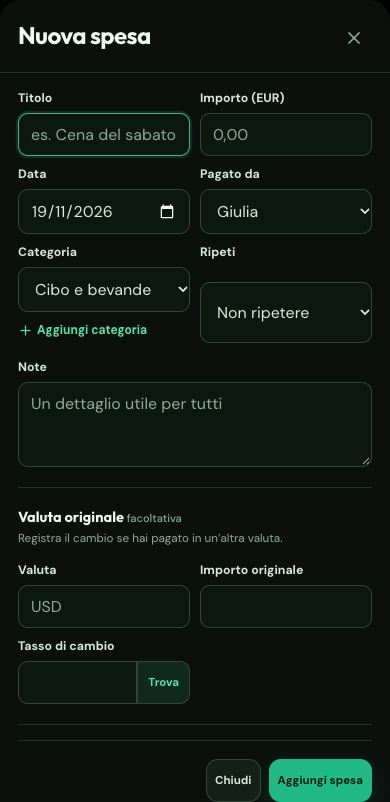
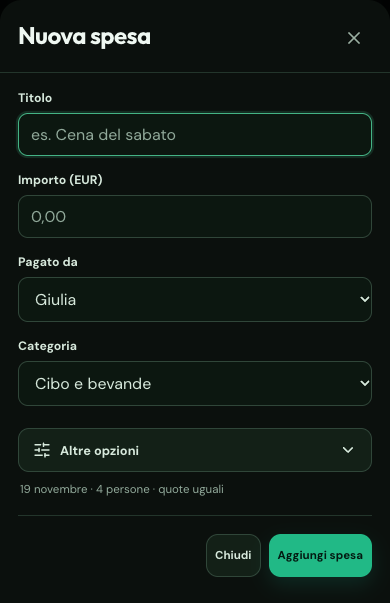
Simplify expense entry with optional details

diff --git a/src/ExpenseForm.tsx b/src/ExpenseForm.tsx
@@ -1,11 +1,11 @@
 import { useEffect, useState, type FormEvent } from 'react'
-import { Paperclip, Plus, Trash2, Upload } from 'lucide-react'
+import { ChevronDown, Paperclip, SlidersHorizontal, Trash2, Upload } from 'lucide-react'
 import { api, fromMinor, money, post, patch, remove, toMinor, today, type Expense, type Group, type Participant, type Settlement } from './api'
 import { Button, Field, Modal } from './ui'
 
 type Categories = { predefined: string[]; custom: string[] }
-export function ExpenseForm({ group, participants, expense, reimbursement, canEdit, canAddCategory, onClose, onSaved, onNotice }: {
-  group: Group; participants: Participant[]; expense?: Expense; reimbursement?: Settlement | null; canEdit: boolean; canAddCategory: boolean; onClose: () => void; onSaved: () => void; onNotice: (message: string) => void
+export function ExpenseForm({ group, participants, expense, reimbursement, canEdit, onClose, onSaved, onNotice }: {
+  group: Group; participants: Participant[]; expense?: Expense; reimbursement?: Settlement | null; canEdit: boolean; onClose: () => void; onSaved: () => void; onNotice: (message: string) => void
 }) {
   const [title, setTitle] = useState(expense?.title || (reimbursement ? 'Rimborso' : ''))
   const [amount, setAmount] = useState(expense ? fromMinor(expense.amountMinor, group.currency) : reimbursement ? fromMinor(reimbursement.amountMinor, group.currency) : '')
@@ -13,10 +13,8 @@ export function ExpenseForm({ group, participants, expense, reimbursement, canEd
   const [payerId, setPayerId] = useState(expense?.payerId || reimbursement?.from || participants[0]?.id || '')
   const [category, setCategory] = useState(expense?.category || (reimbursement ? 'Rimborso' : ''))
   const [categories, setCategories] = useState<Categories | null>(null)
-  const [addingCategory, setAddingCategory] = useState(false)
-  const [newCategory, setNewCategory] = useState('')
   const [categoryError, setCategoryError] = useState('')
-  const [categoryBusy, setCategoryBusy] = useState(false)
+  const [showAdvanced, setShowAdvanced] = useState(false)
   const [notes, setNotes] = useState(expense?.notes || '')
   const [mode, setMode] = useState<Expense['splitMode']>(expense?.splitMode || 'EQUAL')
   const [selected, setSelected] = useState<string[]>(expense?.shares.map((share) => share.participantId) || (reimbursement ? [reimbursement.to] : participants.map((person) => person.id)))
@@ -60,6 +58,7 @@ export function ExpenseForm({ group, participants, expense, reimbursement, canEd
   async function save(event: FormEvent) {
     event.preventDefault(); setError('')
     if (!categories && !reimbursement) return setError('Attendi il caricamento delle categorie.')
+    if (!date) return setError('Scegli una data nelle altre opzioni.')
     if (!selected.length) return setError('Seleziona almeno un partecipante.')
     if (!Number.isFinite(amountMinor) || amountMinor <= 0) return setError('Inserisci un importo valido.')
     const shares = selected.map((participantId) => ({ participantId, value: mode === 'EQUAL' ? 1 : mode === 'EXACT' ? toMinor(weights[participantId] || '0', group.currency) : Number((weights[participantId] || '0').replace(',', '.')) }))
@@ -68,30 +67,33 @@ export function ExpenseForm({ group, participants, expense, reimbursement, canEd
     try { const result = expense ? await patch<{ ok: boolean }>(`/groups/${group.id}/expenses/${expense.id}`, body) : await post<{ id: string }>(`/groups/${group.id}/expenses`, body); await uploadFile(expense?.id || ('id' in result ? result.id : '')); onSaved() }
     catch (err) { setError((err as Error).message) } finally { setBusy(false) }
   }
-  async function addCategory() {
-    if (categoryBusy) return
-    setCategoryError(''); setCategoryBusy(true)
-    try {
-      const result = await post<{ name: string }>(`/groups/${group.id}/categories`, { name: newCategory })
-      setCategories((current) => current && { ...current, custom: [...current.custom, result.name].sort((a, b) => a.localeCompare(b, 'it')) })
-      setCategory(result.name)
-      setNewCategory('')
-      setAddingCategory(false)
-    } catch (err) { setCategoryError((err as Error).message) } finally { setCategoryBusy(false) }
-  }
   async function deleteExpense() { if (!expense || !confirm(`Eliminare “${expense.title}”?`)) return; try { await remove(`/groups/${group.id}/expenses/${expense.id}`); onSaved() } catch (err) { setError((err as Error).message) } }
-  return <Modal title={expense ? canEdit ? 'Modifica spesa' : 'Dettaglio spesa' : reimbursement ? 'Registra rimborso' : 'Nuova spesa'} onClose={onClose} wide>
-    <form onSubmit={save} className="expense-form"><div className="expense-form-main"><div className="form-grid">
-      <Field label="Titolo"><input autoFocus value={title} onChange={(e) => setTitle(e.target.value)} required disabled={!canEdit} placeholder="es. Cena del sabato" /></Field>
-      <Field label={`Importo (${group.currency})`}><input inputMode="decimal" value={amount} onChange={(e) => setAmount(e.target.value)} required disabled={!canEdit} placeholder="0,00" /></Field>
-      <Field label="Data"><input type="date" value={date} onChange={(e) => setDate(e.target.value)} required disabled={!canEdit} /></Field>
-      <Field label="Pagato da"><select value={payerId} onChange={(e) => setPayerId(e.target.value)} disabled={!canEdit}>{participants.map((person) => <option key={person.id} value={person.id}>{person.name}</option>)}</select></Field>
-      <div className="category-field"><Field label="Categoria"><select aria-label="Categoria" value={category} onChange={(e) => setCategory(e.target.value)} disabled={!canEdit || !categories || Boolean(reimbursement)} required>{reimbursement ? <option value="Rimborso">Rimborso</option> : categories ? <><optgroup label="Predefinite">{categories.predefined.map((item) => <option key={item} value={item}>{item}</option>)}</optgroup>{categories.custom.length > 0 && <optgroup label="Del gruppo">{categories.custom.map((item) => <option key={item} value={item}>{item}</option>)}</optgroup>}</> : <option value="">Caricamento…</option>}</select></Field>{canEdit && canAddCategory && !reimbursement && <button type="button" className="category-add-toggle" onClick={() => { setAddingCategory(!addingCategory); setCategoryError('') }}><Plus size={15} /> Aggiungi categoria</button>}{addingCategory && <div className="category-add-form"><input aria-label="Nome nuova categoria" placeholder="Nome della nuova categoria" maxLength={60} value={newCategory} onChange={(e) => setNewCategory(e.target.value)} onKeyDown={(e) => { if (e.key === 'Enter') { e.preventDefault(); void addCategory() } }} /><Button variant="secondary" onClick={addCategory} disabled={!newCategory.trim() || categoryBusy}>Aggiungi</Button></div>}{categoryError && <small className="category-error" role="alert">{categoryError}</small>}</div>
-      <Field label="Ripeti">{expense ? <span>{expense.recurrenceId ? 'Spesa ricorrente' : 'Non ricorrente'}</span> : <select value={recurrence} onChange={(e) => setRecurrence(e.target.value)} disabled={!canEdit}><option value="">Non ripetere</option><option value="DAILY">Ogni giorno</option><option value="WEEKLY">Ogni settimana</option><option value="MONTHLY">Ogni mese</option></select>}</Field>
-    </div><Field label="Note"><textarea value={notes} onChange={(e) => setNotes(e.target.value)} rows={3} disabled={!canEdit} placeholder="Un dettaglio utile per tutti" /></Field>
-    <div className="subsection"><h3>Valuta originale <span className="optional">facoltativa</span></h3><p>Registra il cambio se hai pagato in un’altra valuta.</p><div className="form-grid"><Field label="Valuta"><input value={originalCurrency} onChange={(e) => setOriginalCurrency(e.target.value.toUpperCase())} maxLength={3} placeholder="USD" disabled={!canEdit} /></Field><Field label="Importo originale"><input value={originalAmount} onChange={(e) => setOriginalAmount(e.target.value)} inputMode="decimal" disabled={!canEdit} /></Field><Field label="Tasso di cambio"><div className="input-action"><input value={rate} onChange={(e) => setRate(e.target.value)} inputMode="decimal" disabled={!canEdit} />{canEdit && <button type="button" onClick={fetchRate}>Trova</button>}</div></Field></div></div>
-    <div className="subsection"><h3>Allegati</h3><p>Immagini o PDF fino a 5 MB.</p>{expense?.documents.map((document) => <div className="document-row" key={document.id}><Paperclip size={16} /><a href={`/api/groups/${group.id}/expenses/${expense.id}/documents/${document.id}`}>{document.name}</a>{canEdit && <button type="button" onClick={async () => { try { await remove(`/groups/${group.id}/expenses/${expense.id}/documents/${document.id}`); onSaved() } catch (err) { onNotice((err as Error).message) } }} aria-label={`Rimuovi ${document.name}`}><Trash2 size={16} /></button>}</div>)}{canEdit && <label className="upload-zone"><Upload size={20} />{file ? file.name : 'Scegli un’immagine o PDF'}<input type="file" accept="image/jpeg,image/png,image/webp,application/pdf" onChange={(e) => setFile(e.target.files?.[0] || null)} /></label>}</div></div>
-    <aside className="split-panel"><h3>Dividi la spesa</h3><p>Scegli chi partecipa e come suddividere l’importo.</p><div className="split-modes">{([['EQUAL','Uguale'],['SHARES','Quote'],['PERCENT','%'],['EXACT','Importi']] as const).map(([value,label]) => <button type="button" key={value} className={mode === value ? 'active' : ''} onClick={() => changeMode(value)} disabled={!canEdit}>{label}</button>)}</div><div className="share-list">{participants.map((person) => <div className="share-row" key={person.id}><label><input type="checkbox" checked={selected.includes(person.id)} onChange={() => toggle(person.id)} disabled={!canEdit} />{person.name}</label>{selected.includes(person.id) && mode !== 'EQUAL' ? <input aria-label={`Quota di ${person.name}`} value={weights[person.id] || ''} onChange={(e) => setWeights({ ...weights, [person.id]: e.target.value })} inputMode="decimal" disabled={!canEdit} /> : null}</div>)}</div><div className="split-total"><span>Totale da dividere</span><strong>{Number.isFinite(amountMinor) ? money(amountMinor, group.currency) : '—'}</strong></div></aside>
-    {error && <div className="form-error expense-error" role="alert">{error}</div>}<div className="expense-form-actions">{expense && canEdit && <Button variant="danger" onClick={deleteExpense}><Trash2 size={17} /> Elimina</Button>}<span /><Button variant="secondary" onClick={onClose}>Chiudi</Button>{canEdit && <Button type="submit" disabled={busy || (!categories && !reimbursement)}>{busy ? 'Salvo…' : expense ? 'Salva modifiche' : 'Aggiungi spesa'}</Button>}</div></form>
+  return <Modal title={expense ? canEdit ? 'Modifica spesa' : 'Dettaglio spesa' : reimbursement ? 'Registra rimborso' : 'Nuova spesa'} onClose={onClose}>
+    <form onSubmit={save} className="expense-form">
+      <div className="expense-form-main">
+        <div className="expense-essentials">
+          <Field label="Titolo"><input autoFocus value={title} onChange={(event) => setTitle(event.target.value)} required disabled={!canEdit} placeholder="es. Cena del sabato" /></Field>
+          <Field label={'Importo (' + group.currency + ')'}><input inputMode="decimal" value={amount} onChange={(event) => setAmount(event.target.value)} required disabled={!canEdit} placeholder="0,00" /></Field>
+          <Field label="Pagato da"><select value={payerId} onChange={(event) => setPayerId(event.target.value)} disabled={!canEdit}>{participants.map((person) => <option key={person.id} value={person.id}>{person.name}</option>)}</select></Field>
+          <div className="category-field"><Field label="Categoria"><select aria-label="Categoria" value={category} onChange={(event) => setCategory(event.target.value)} disabled={!canEdit || !categories || Boolean(reimbursement)} required>{reimbursement ? <option value="Rimborso">Rimborso</option> : categories ? <><optgroup label="Predefinite">{categories.predefined.map((item) => <option key={item} value={item}>{item}</option>)}</optgroup>{categories.custom.length > 0 && <optgroup label="Del gruppo">{categories.custom.map((item) => <option key={item} value={item}>{item}</option>)}</optgroup>}</> : <option value="">Caricamento…</option>}</select></Field>{categoryError && <small className="category-error" role="alert">{categoryError}</small>}</div>
+        </div>
+        <button type="button" className="expense-options-toggle" aria-expanded={showAdvanced} onClick={() => setShowAdvanced(!showAdvanced)}>
+          <span><SlidersHorizontal size={18} /> Altre opzioni</span><ChevronDown size={18} className={showAdvanced ? 'rotated' : ''} />
+        </button>
+        {!showAdvanced && <p className="expense-defaults">{date ? new Date(date + 'T12:00:00').toLocaleDateString('it-IT', { day: 'numeric', month: 'long' }) : 'Data da scegliere'} · {selected.length} {selected.length === 1 ? 'persona' : 'persone'} · {mode === 'EQUAL' ? 'quote uguali' : mode === 'SHARES' ? 'quote personalizzate' : mode === 'PERCENT' ? 'percentuali' : 'importi personalizzati'}</p>}
+        {showAdvanced && <div id="expense-advanced" className="expense-advanced">
+          <div className="expense-extra-fields">
+            <Field label="Data"><input type="date" value={date} onChange={(event) => setDate(event.target.value)} required disabled={!canEdit} /></Field>
+            <Field label="Ripeti">{expense ? <span>{expense.recurrenceId ? 'Spesa ricorrente' : 'Non ricorrente'}</span> : <select value={recurrence} onChange={(event) => setRecurrence(event.target.value)} disabled={!canEdit}><option value="">Non ripetere</option><option value="DAILY">Ogni giorno</option><option value="WEEKLY">Ogni settimana</option><option value="MONTHLY">Ogni mese</option></select>}</Field>
+          </div>
+          <section className="split-panel"><h3>Dividi la spesa</h3><p>Scegli chi partecipa e come suddividere l’importo.</p><div className="split-modes">{([['EQUAL','Uguale'],['SHARES','Quote'],['PERCENT','%'],['EXACT','Importi']] as const).map(([value,label]) => <button type="button" key={value} className={mode === value ? 'active' : ''} onClick={() => changeMode(value)} disabled={!canEdit}>{label}</button>)}</div><div className="share-list">{participants.map((person) => <div className="share-row" key={person.id}><label><input type="checkbox" checked={selected.includes(person.id)} onChange={() => toggle(person.id)} disabled={!canEdit} />{person.name}</label>{selected.includes(person.id) && mode !== 'EQUAL' ? <input aria-label={'Quota di ' + person.name} value={weights[person.id] || ''} onChange={(event) => setWeights({ ...weights, [person.id]: event.target.value })} inputMode="decimal" disabled={!canEdit} /> : null}</div>)}</div><div className="split-total"><span>Totale da dividere</span><strong>{Number.isFinite(amountMinor) ? money(amountMinor, group.currency) : '—'}</strong></div></section>
+          <Field label="Note"><textarea value={notes} onChange={(event) => setNotes(event.target.value)} rows={3} disabled={!canEdit} placeholder="Un dettaglio utile per tutti" /></Field>
+          <div className="subsection"><h3>Valuta originale <span className="optional">facoltativa</span></h3><p>Registra il cambio se hai pagato in un’altra valuta.</p><div className="expense-extra-fields"><Field label="Valuta"><input value={originalCurrency} onChange={(event) => setOriginalCurrency(event.target.value.toUpperCase())} maxLength={3} placeholder="USD" disabled={!canEdit} /></Field><Field label="Importo originale"><input value={originalAmount} onChange={(event) => setOriginalAmount(event.target.value)} inputMode="decimal" disabled={!canEdit} /></Field><Field label="Tasso di cambio"><div className="input-action"><input value={rate} onChange={(event) => setRate(event.target.value)} inputMode="decimal" disabled={!canEdit} />{canEdit && <button type="button" onClick={fetchRate}>Trova</button>}</div></Field></div></div>
+          <div className="subsection"><h3>Allegati</h3><p>Immagini o PDF fino a 5 MB.</p>{expense?.documents.map((document) => <div className="document-row" key={document.id}><Paperclip size={16} /><a href={'/api/groups/' + group.id + '/expenses/' + expense.id + '/documents/' + document.id}>{document.name}</a>{canEdit && <button type="button" onClick={async () => { try { await remove('/groups/' + group.id + '/expenses/' + expense.id + '/documents/' + document.id); onSaved() } catch (err) { onNotice((err as Error).message) } }} aria-label={'Rimuovi ' + document.name}><Trash2 size={16} /></button>}</div>)}{canEdit && <label className="upload-zone"><Upload size={20} />{file ? file.name : 'Scegli un’immagine o PDF'}<input type="file" accept="image/jpeg,image/png,image/webp,application/pdf" onChange={(event) => setFile(event.target.files?.[0] || null)} /></label>}</div>
+        </div>}
+      </div>
+      {error && <div className="form-error expense-error" role="alert">{error}</div>}
+      <div className="expense-form-actions">{expense && canEdit && <Button variant="danger" onClick={deleteExpense}><Trash2 size={17} /> Elimina</Button>}<span /><Button variant="secondary" onClick={onClose}>Chiudi</Button>{canEdit && <Button type="submit" disabled={busy || (!categories && !reimbursement)}>{busy ? 'Salvo…' : expense ? 'Salva modifiche' : 'Aggiungi spesa'}</Button>}</div>
+    </form>
   </Modal>
 }

diff --git a/src/GroupPage.tsx b/src/GroupPage.tsx
@@ -89,7 +89,7 @@ export function GroupPage({ groupId, tab, user, onTab, onDeleted, onNotice }: { 
     {tab === 'people' && <><SectionTitle eyebrow="LE PERSONE" title="Partecipanti" detail="I partecipanti rappresentano chi paga o divide le spese." action={permissions.canManageGroup && <Button variant="secondary" onClick={() => setNewPersonOpen(true)}><UserPlus size={17} /> Aggiungi</Button>} /><div className="panel people-list">{participants.map((person) => <div className="person-row" key={person.id}><Avatar name={person.name} /><div><strong>{person.name}</strong><small>{person.userId ? 'Collegato a un account' : 'Solo partecipante'}</small></div>{permissions.canManageGroup && <select className="person-account" aria-label={`Account di ${person.name}`} value={person.userId || ''} onChange={async (event) => { try { await patch(`/groups/${groupId}/participants/${person.id}`, { userId: event.target.value || null }); reload() } catch (err) { onNotice((err as Error).message) } }}><option value="">Nessun account</option>{eligibleUsers.map((account) => <option value={account.id} key={account.id}>{account.name} (@{account.username})</option>)}</select>}{permissions.canManageGroup && <button className="icon-button" aria-label={`Rimuovi ${person.name}`} onClick={async () => { if (!confirm(`Rimuovere ${person.name}?`)) return; try { await remove(`/groups/${groupId}/participants/${person.id}`); reload() } catch (err) { onNotice((err as Error).message) } }}><Trash2 size={17} /></button>}</div>)}</div>{permissions.canManageGroup && <div className="info-card"><Settings2 size={23} /><div><strong>Impostazioni del gruppo</strong><p>Modifica nome, valuta e descrizione.</p></div><Button variant="secondary" onClick={() => setSettingsOpen(true)}>Modifica <ChevronRight size={16} /></Button></div>}</>}
     {tab === 'permissions' && permissions.canManageMembers && <PermissionsPanel groupId={groupId} onNotice={onNotice} />}
     {tab === 'activity' && <><SectionTitle eyebrow="CRONOLOGIA" title="Attività del gruppo" detail="Le modifiche registrate con l’account di chi le ha fatte." /><div className="panel activity-list">{audit.map((row) => <div className="activity-row" key={row.id}><span className="activity-dot" /><div><strong>{row.actor || 'Sistema'}</strong> {actionLabel(row.action)} {row.detail && <span className="activity-detail">“{row.detail}”</span>}<small>{new Date(row.createdAt).toLocaleString('it-IT')}</small></div></div>)}{audit.length === 0 && <p className="muted">Nessuna attività registrata.</p>}</div></>}
-    {editExpense && <ExpenseForm group={group} participants={participants} expense={editExpense === 'new' ? undefined : editExpense} reimbursement={reimbursement} canEdit={editExpense === 'new' ? true : canEdit(editExpense)} canAddCategory={permissions.canAddExpense || permissions.canManageGroup} onClose={() => { setEditExpense(null); setReimbursement(null) }} onSaved={() => { setEditExpense(null); setReimbursement(null); reload() }} onNotice={onNotice} />}
+    {editExpense && <ExpenseForm group={group} participants={participants} expense={editExpense === 'new' ? undefined : editExpense} reimbursement={reimbursement} canEdit={editExpense === 'new' ? true : canEdit(editExpense)} onClose={() => { setEditExpense(null); setReimbursement(null) }} onSaved={() => { setEditExpense(null); setReimbursement(null); reload() }} onNotice={onNotice} />}
     {newPersonOpen && <AddPerson groupId={groupId} onClose={() => setNewPersonOpen(false)} onDone={() => { setNewPersonOpen(false); reload() }} onNotice={onNotice} />}
     {settingsOpen && <GroupSettings group={group} onClose={() => setSettingsOpen(false)} onDone={() => { setSettingsOpen(false); reload() }} onNotice={onNotice} />}
     {categoriesOpen && <CategoryManager groupId={groupId} onClose={() => setCategoriesOpen(false)} onChanged={reload} />}

diff --git a/src/forms.css b/src/forms.css
@@ -363,29 +363,38 @@
 }
 .expense-form {
   display: grid;
-  grid-template-columns: minmax(0, 1.6fr) minmax(250px, 1fr);
-  gap: 23px;
+  grid-template-columns: minmax(0, 1fr);
+  gap: 18px;
 }
 .expense-form-main {
   min-width: 0;
 }
-.expense-form-main > .field {
-  margin-top: 16px;
-}
-.category-field { min-width: 0; }
-.category-add-toggle {
-  display: inline-flex;
+.expense-essentials,
+.expense-extra-fields,
+.expense-advanced { display: grid; grid-template-columns: minmax(0, 1fr); gap: 16px; }
+.expense-options-toggle {
+  display: flex;
+  width: 100%;
   align-items: center;
-  gap: 4px;
-  margin-top: 7px;
-  padding: 3px 0;
-  border: 0;
-  background: none;
-  color: var(--accent-text);
-  font-size: 0.75rem;
+  justify-content: space-between;
+  margin-top: 22px;
+  padding: 12px 14px;
+  border: 1px solid var(--border-interactive);
+  border-radius: 11px;
+  background: var(--surface-interactive);
+  color: var(--text-body);
+  font-size: 0.8rem;
   font-weight: 700;
   cursor: pointer;
 }
+.expense-options-toggle > span { display: inline-flex; align-items: center; gap: 9px; }
+.expense-options-toggle > svg { transition: transform 0.2s ease; }
+.expense-options-toggle > svg.rotated { transform: rotate(180deg); }
+.expense-options-toggle:focus-visible { outline: 2px solid var(--focus-border); outline-offset: 2px; }
+.expense-defaults { margin: 10px 2px 0; color: var(--text-faint); font-size: 0.72rem; }
+.expense-advanced { gap: 20px; margin-top: 18px; }
+.expense-advanced .subsection { margin-top: 0; }
+.category-field { min-width: 0; }
 .category-add-form { display: flex; gap: 8px; margin-top: 9px; }
 .category-add-form input {
   min-width: 0;
@@ -451,8 +460,7 @@
   border-radius: 15px;
   padding: 18px;
   align-self: start;
-  position: sticky;
-  top: 0;
+  position: static;
 }
 .split-panel h3 {
   margin: 0 0 4px;

diff --git a/README.md b/README.md
@@ -6,7 +6,7 @@ The product takes functional inspiration from [Spliit](https://github.com/spliit
 
 ## Screenshots
 
-These are real screenshots of `v0.3.0`, captured with sample groups and people. They contain no personal data.
+These are real screenshots of `v0.3.1`, captured with sample groups and people. They contain no personal data.
 
 ### Overview and expenses
 
@@ -28,6 +28,8 @@ These are real screenshots of `v0.3.0`, captured with sample groups and people. 
 | --- | --- | --- |
 | ![Mobile overview in AMOLED mode](docs/screenshots/panoramica-amoled-mobile.png) | ![Mobile expenses with the raised central action](docs/screenshots/spese-amoled-mobile.png) | ![New expense form in AMOLED mode](docs/screenshots/nuova-spesa-amoled-mobile.png) |
 
+![Additional expense options expanded in AMOLED mode](docs/screenshots/opzioni-spesa-amoled-mobile.png)
+
 When you can add expenses to multiple groups, the central action asks which group to use:
 
 ![Mobile group picker in AMOLED mode](docs/screenshots/scelta-gruppo-amoled-mobile.png)
@@ -46,7 +48,8 @@ You can reproduce these screenshots with [`e2e/showcase.mjs`](e2e/showcase.mjs) 
 - Per-person, per-group permissions for viewing, adding expenses, editing own or all expenses, managing groups and members, exporting, and deleting groups.
 - Expense participants can be linked to user accounts. Split costs equally, by shares, by percentage, or by exact amounts; view balances and suggested reimbursements.
 - A group-level **Simplify expenses** option in Balances. Enabled by default, it offsets balances across the whole group; disabled, it shows direct reimbursements between participants, offset pairwise. Group managers can change the setting.
-- Recurring expenses, saved per-group categories with predefined choices and a separate custom-category action, statistics, activity history, image/PDF attachments, CSV/JSON export, and currency conversion on request. Group managers can merge duplicate legacy categories without losing expenses or recurring rules.
+- The quick expense form shows only title, amount, payer, and category in one column. **More options** reveals the date, split method, recurrence, notes, currency conversion, and attachments. New expenses default to today and an equal split across all group participants.
+- Recurring expenses, saved per-group categories with predefined choices, statistics, activity history, image/PDF attachments, CSV/JSON export, and currency conversion on request. Group managers add custom categories and merge duplicate legacy categories from the group menu without losing expenses or recurring rules.
 - Soft-deleted groups can be restored by an administrator from the user administration page. There is no automatic permanent deletion.
 - Light and true-black AMOLED themes, plus a system setting. The top bar has a compact light/AMOLED toggle; the full choice is in account settings and is also available before login.
 - Avataaars generated locally from names, and group colors that remain stable when the group list changes order.
@@ -70,12 +73,12 @@ In production, the database and attachments live under `/data`. Back up **both**
 
 ## NAS / Portainer
 
-Paste this complete stack into **Portainer → Stacks**. Before deploying, replace `spese.example.com` with your HTTPS hostname and replace the example setup key with a random value of at least 24 characters. The image is pinned to `v0.3.0`.
+Paste this complete stack into **Portainer → Stacks**. Before deploying, replace `spese.example.com` with your HTTPS hostname and replace the example setup key with a random value of at least 24 characters. The image is pinned to `v0.3.1`.
 
 ```yaml
 services:
   app:
-    image: ghcr.io/p4xx07/condivisa:v0.3.0
+    image: ghcr.io/p4xx07/condivisa:v0.3.1
     restart: unless-stopped
     ports:
       - "127.0.0.1:3000:3000"
@@ -113,7 +116,7 @@ For the Compose example above, create one reverse proxy rule in **DSM 7 → Cont
 Assign a valid certificate to the source hostname and set `PUBLIC_ORIGIN=https://spese.example.com` in the stack. Forward the entire hostname to the container: both `/` and `/api/*` must reach it. If you change `HOST_PORT` in `compose.portainer.yaml`, use that host port as the Synology destination port; the container's internal port remains `3000`. Only HTTPS port `443` needs to be reachable externally for this hostname. See [Synology's reverse proxy settings](https://kb.synology.com/en-global/DSM/help/DSM/AdminCenter/system_login_portal_advanced) for the DSM fields.
 
 1. Configure a public HTTPS hostname and a valid certificate in your NAS reverse proxy. Forward HTTP requests to the chosen NAS port (for example, `3000`) while preserving `Host` and `X-Forwarded-Proto`.
-2. If you prefer [`compose.portainer.yaml`](compose.portainer.yaml), set `PUBLIC_ORIGIN` and `SETUP_KEY` in Portainer, and optionally `HOST_PORT`. `IMAGE` defaults to `ghcr.io/p4xx07/condivisa:v0.3.0`. The image is public and can be pulled without GHCR credentials.
+2. If you prefer [`compose.portainer.yaml`](compose.portainer.yaml), set `PUBLIC_ORIGIN` and `SETUP_KEY` in Portainer, and optionally `HOST_PORT`. `IMAGE` defaults to `ghcr.io/p4xx07/condivisa:v0.3.1`. The image is public and can be pulled without GHCR credentials.
 3. To build locally, use `compose.yaml` with the same variables and run `docker compose up -d --build`.
 4. Open the HTTPS hostname, set up the administrator, and create your first group. The named volume preserves data across stack updates.
 5. On iPhone, open the URL in **Safari** and choose **Share → Add to Home Screen**. On Android, use the browser's **Install app** action. The browser must reach the server over HTTPS. The PWA does not sync expense changes offline.
